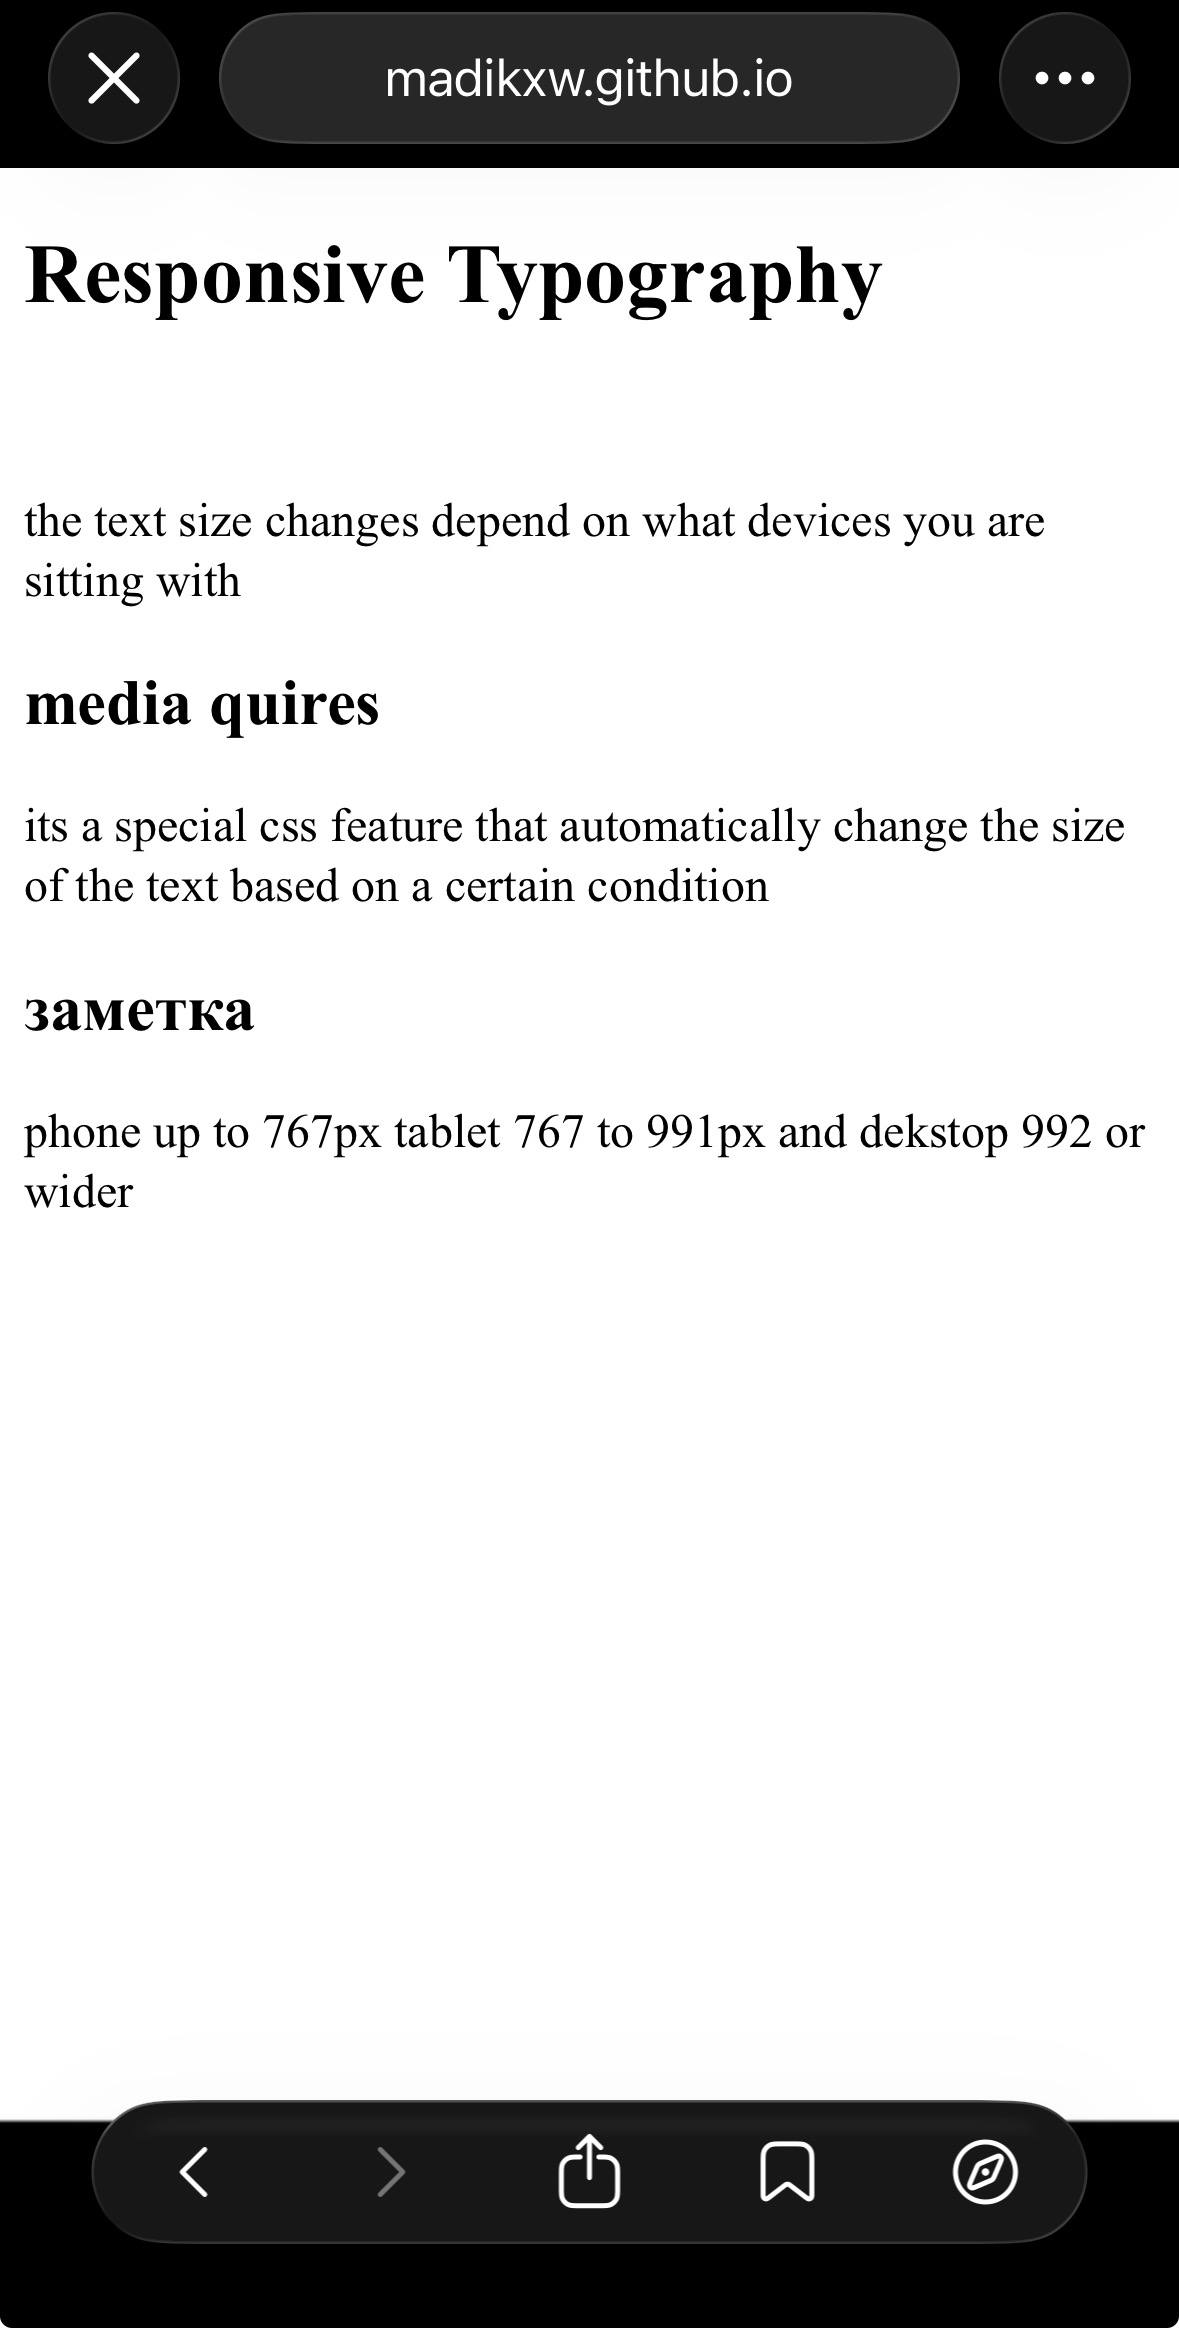
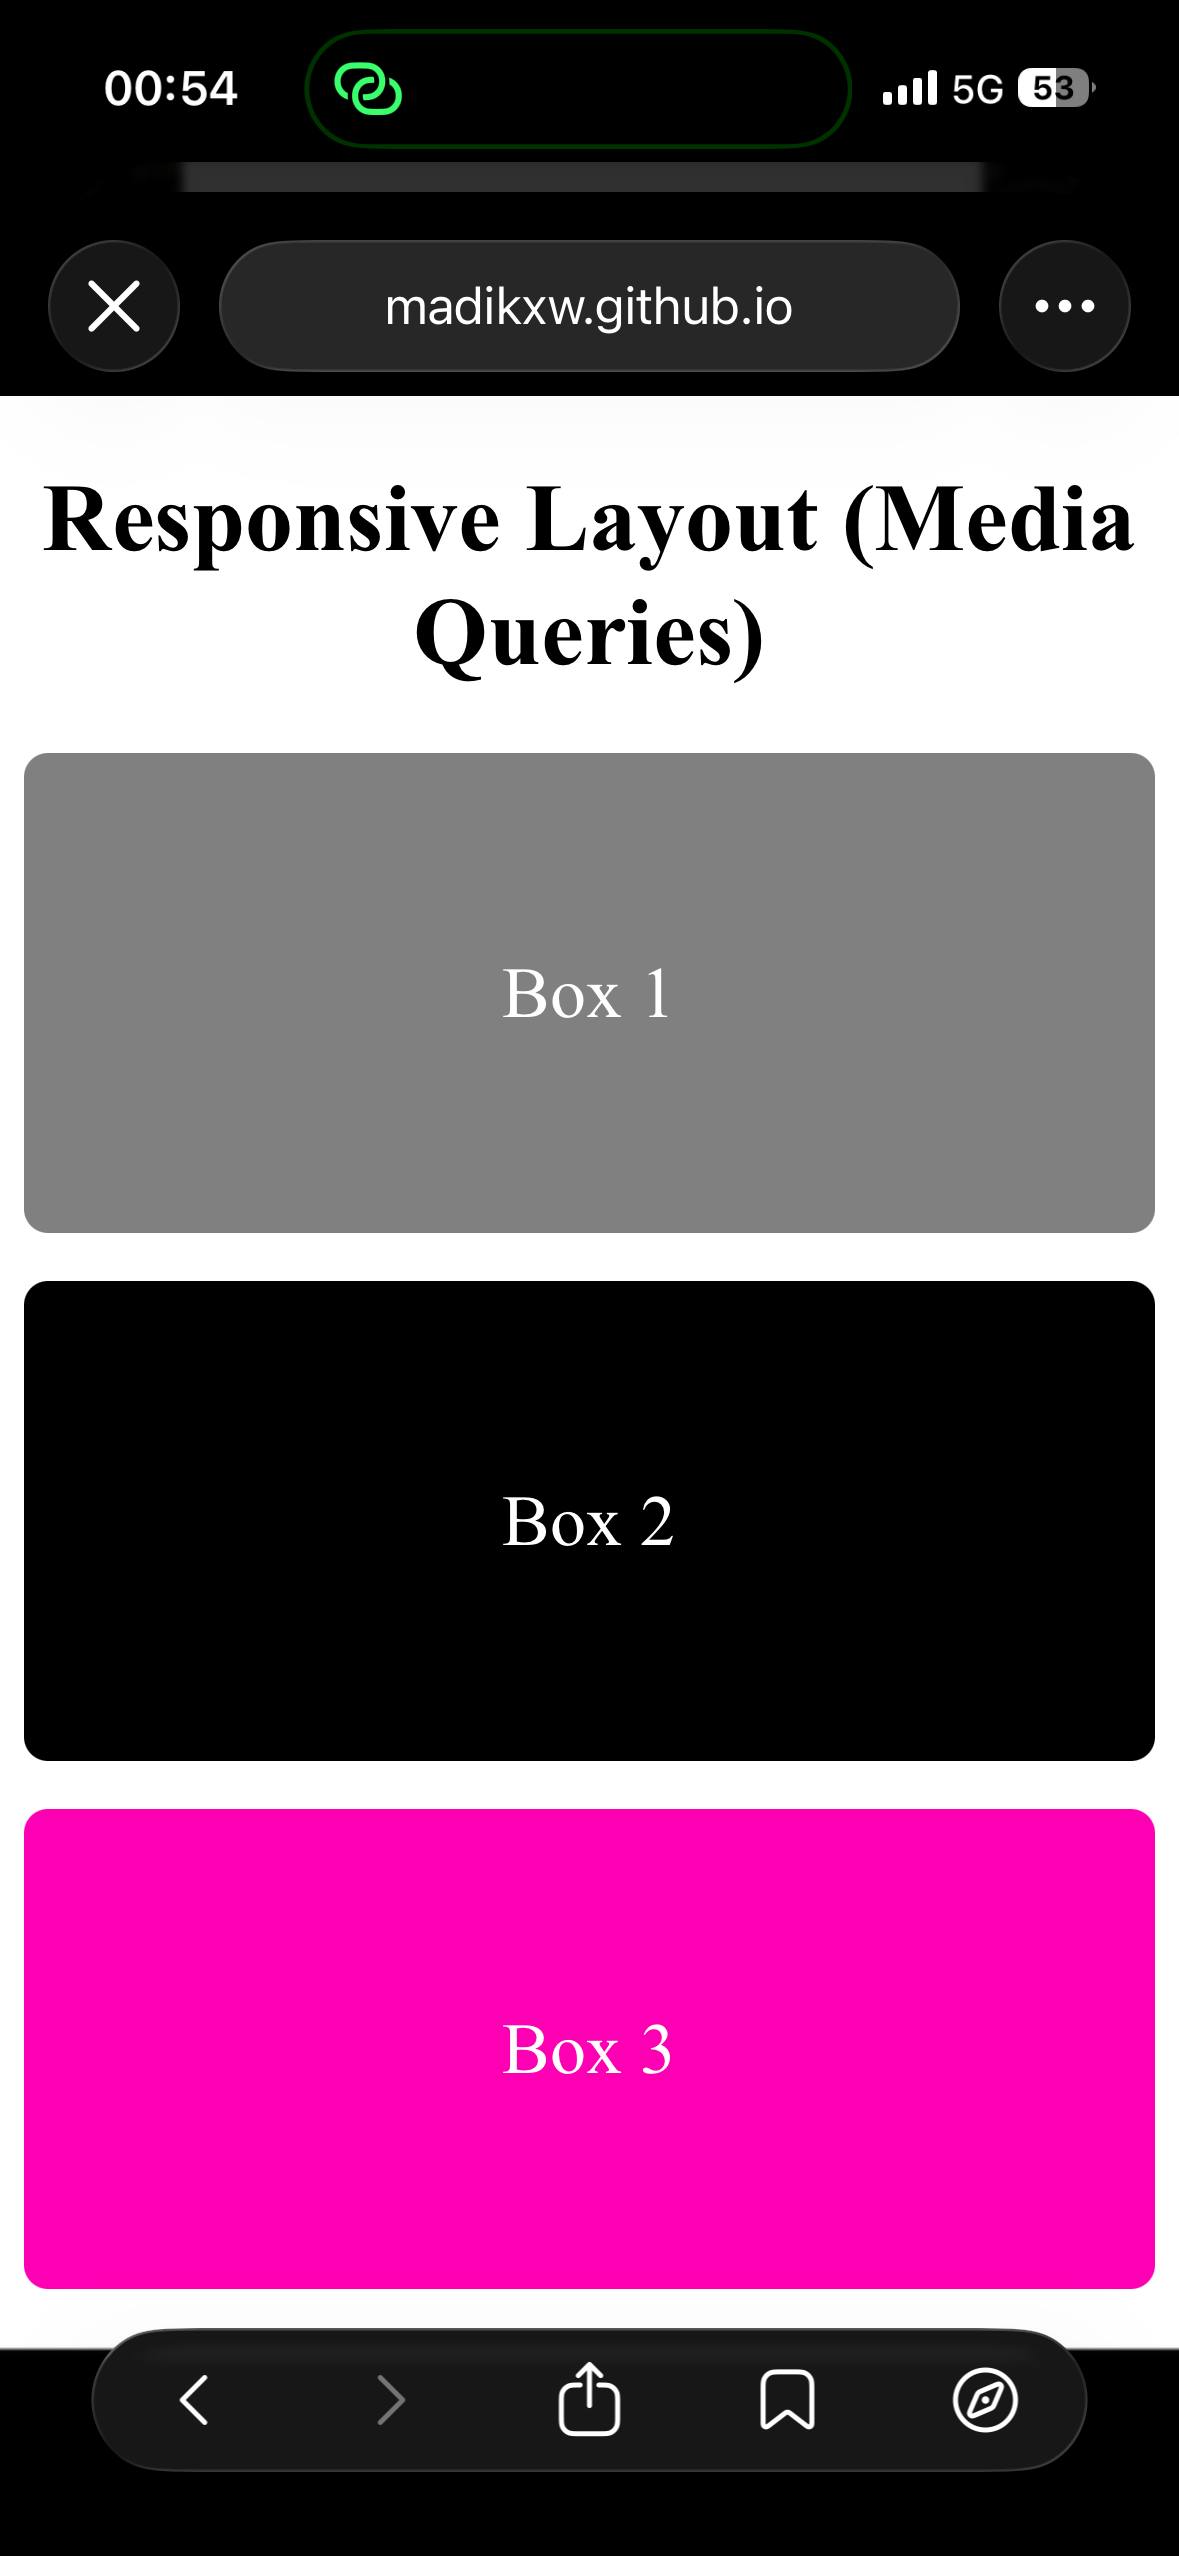
fef

diff --git a/README.md b/README.md
@@ -14,7 +14,7 @@ Files: `task0.html`, `css/task0.css`
 
 Mobile:
 
-<img src="screenshots/image.png" alt="Task 0 Mobile" width="350">
+<img src="screenshots/image-1.png" alt="Task 0 Mobile" width="350">
 
 
 
@@ -25,7 +25,8 @@ Desktop:
 
 
 Mobile:
-<img src="screenshots/image-1.png" alt="Task 0 Mobile" width="350">
+<img src="screenshots/image.png" alt="Task 0 Mobile" width="350">
+
 
 
 
@@ -65,7 +66,7 @@ Desktop:
 
 Mobile (menu open):
 
-<img src="screenshots/image.png-3" alt="Task 0 Mobile" width="350">
+<img src="screenshots/image-3.png" alt="Task 0 Mobile" width="350">
 
 
 ---
@@ -78,7 +79,7 @@ Mobile (menu open):
 
 
 Mobile:
-<img src="screenshots/image.png-4" alt="Task 0 Mobile" width="350">
+<img src="screenshots/image-4.png" alt="Task 0 Mobile" width="350">
 Desktop:
 
 ![alt text](screenshots/image-9.png)
